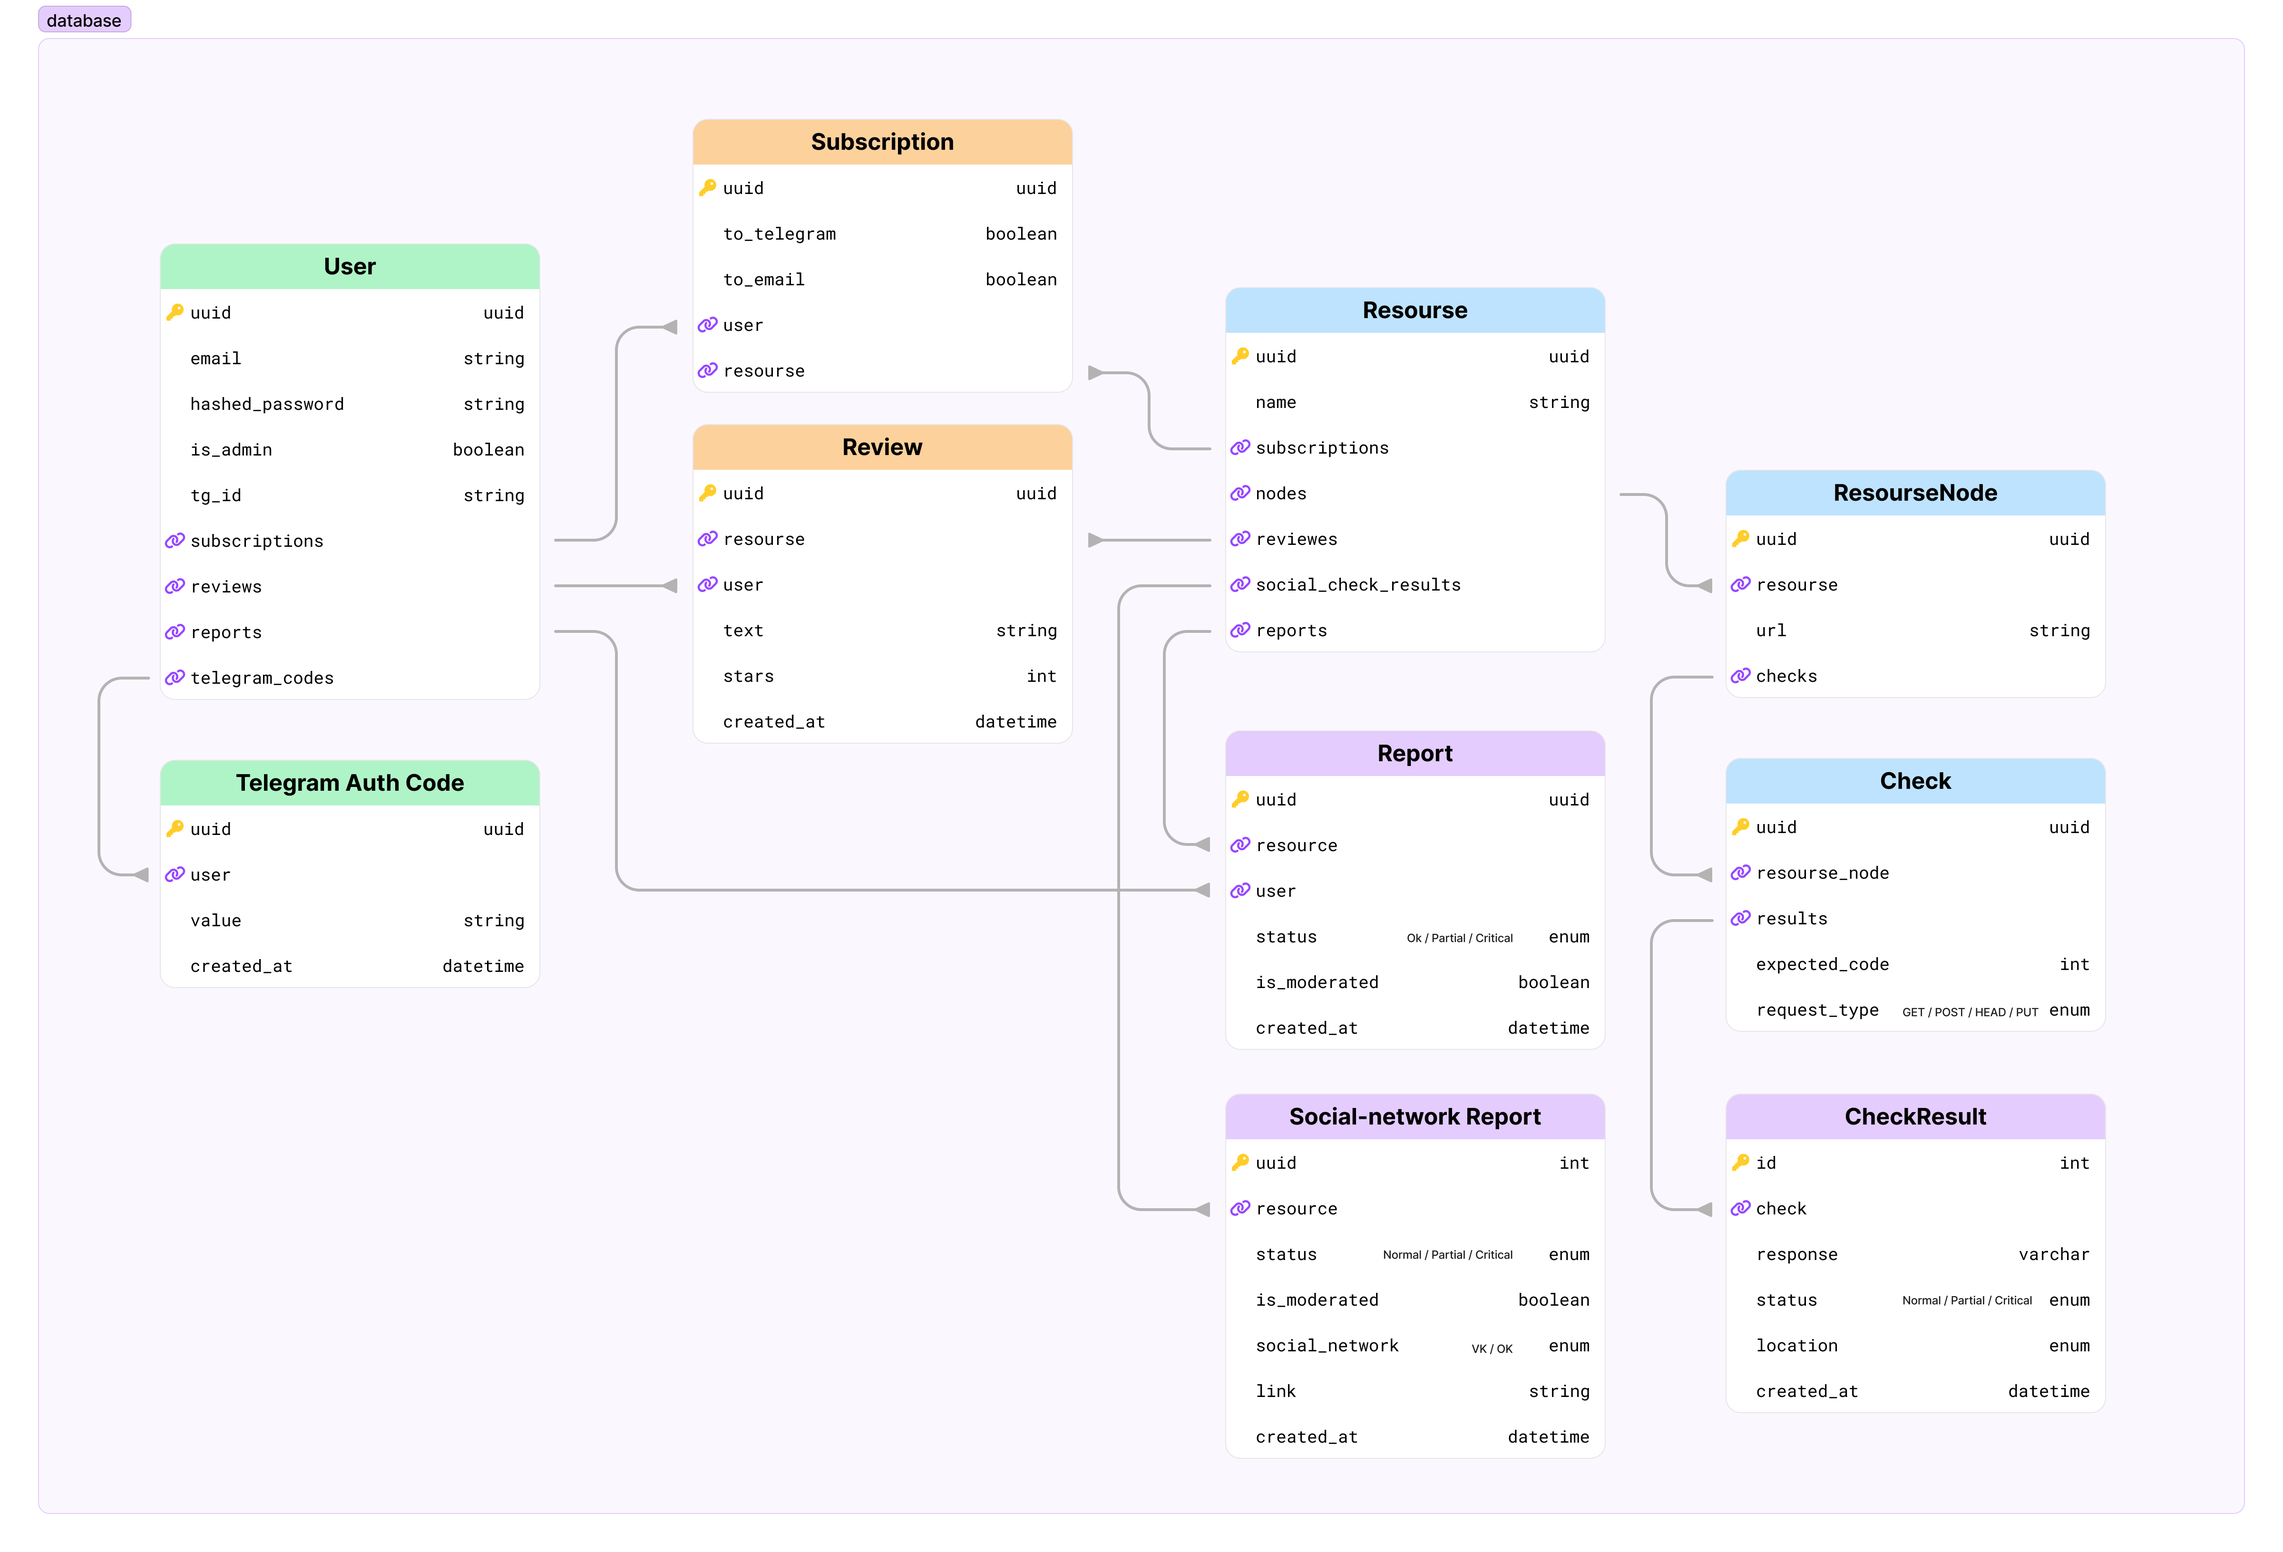
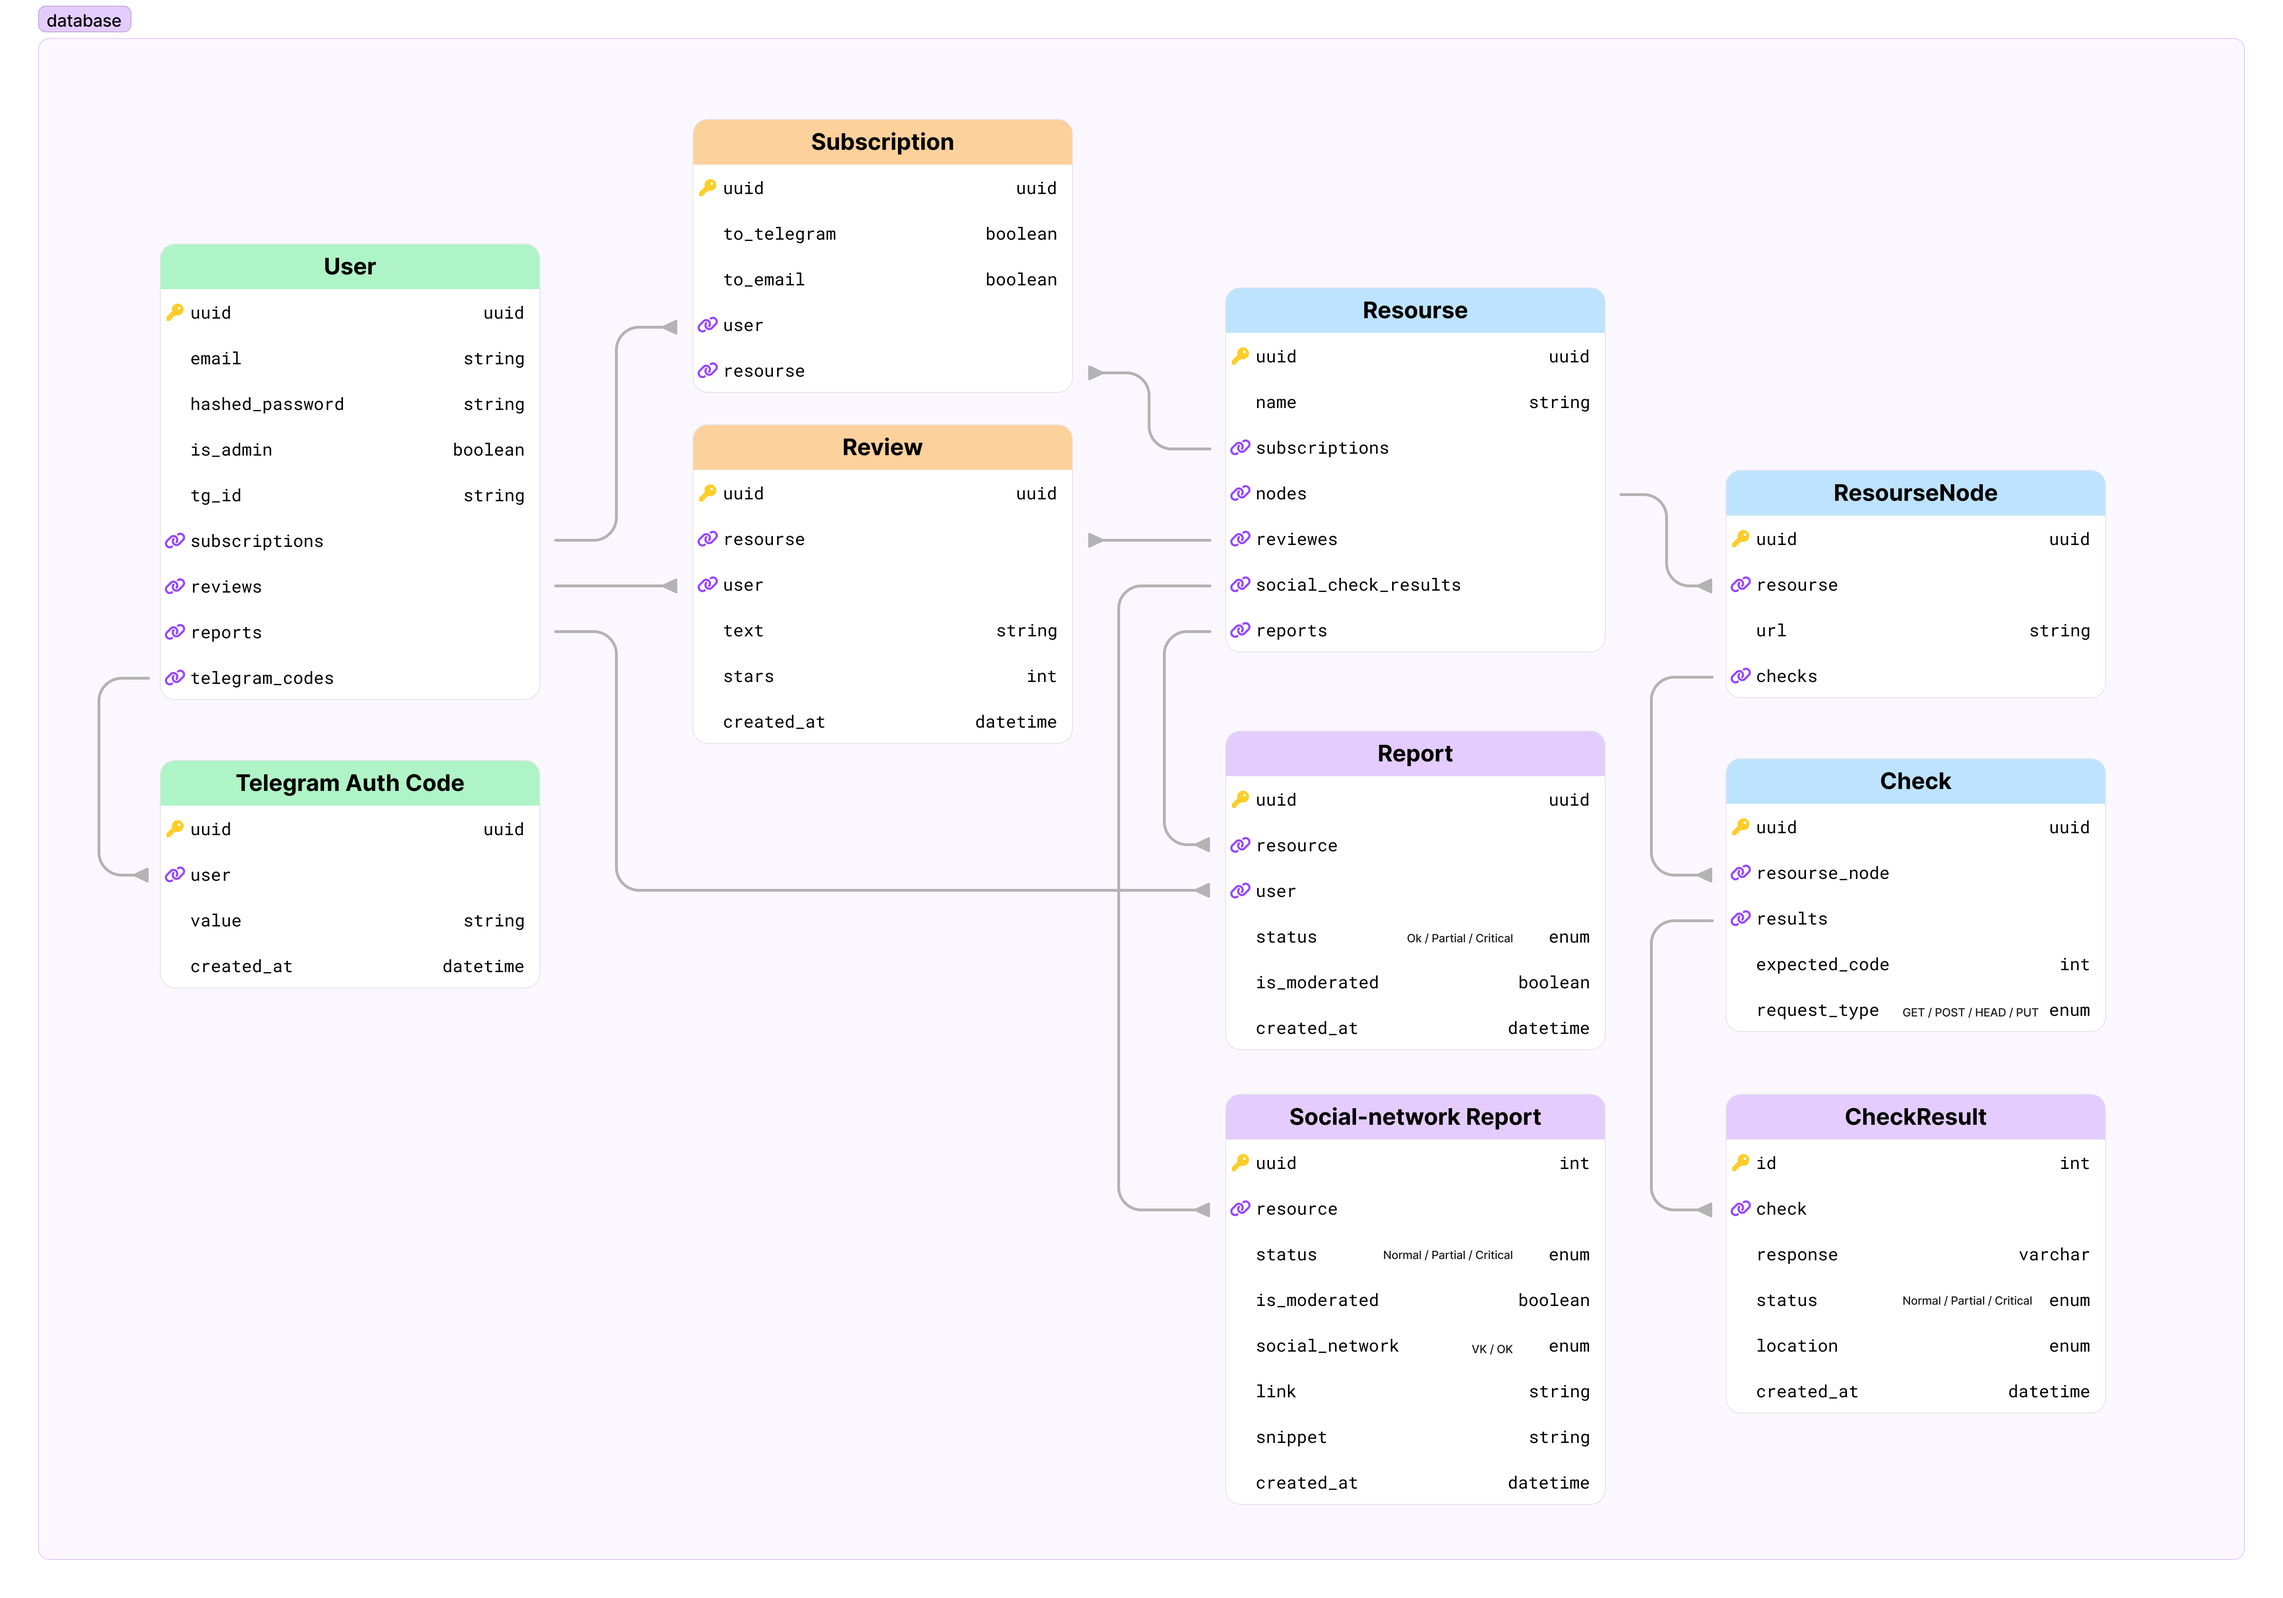
feat(api): add snippet field to social network

diff --git a/backend/app/applications/social_reports/schemas.py b/backend/app/applications/social_reports/schemas.py
@@ -21,9 +21,10 @@ class BaseProperties(BaseModel):
 
 class SocialReport(BaseProperties):
     status: Status
+    snippet: str
     social_network: SocialNetworks
     link: str
-    resource_id: UUID4
+    resource_uuid: UUID4
 
 
 class SocialReportCreate(SocialReport):
@@ -34,6 +35,7 @@ class SocialReportCreate(SocialReport):
             "example": {
                 "status": "OK",
                 "social_network": "VK",
+                "snippet": "Игорь К: Только у меня упал сайт вышки??",
                 "link": "https://vk.com/club123456789",
                 "resource_uuid": "f7b4c2c0-5b5a-4b4a-9c1c-8e1b0c1b0c1b",
             }
@@ -47,15 +49,16 @@ class SocialReportOut(SocialReport):
 
     class Config:
         orm_mode = True
-        
+
         schema_extra = {
             "example": {
                 "status": "OK",
                 "social_network": "VK",
+                "snippet": "Игорь К: Только у меня упал сайт вышки??",
                 "link": "https://vk.com/club123456789",
                 "resource_uuid": "f7b4c2c0-5b5a-4b4a-9c1c-8e1b0c1b0c1b",
                 "uuid": "f7b4c2c0-5b5a-4b4a-9c1c-8e1b0c1b0c1b",
                 "is_moderated": False,
-                "created_at": "2023-02-19T09:50:41.783Z"
+                "created_at": "2023-02-19T09:50:41.783Z",
             }
         }

diff --git a/backend/app/applications/resources/routes.py b/backend/app/applications/resources/routes.py
@@ -77,11 +77,11 @@ async def read_resource(
             status_code=404,
             detail="The resource with this uuid does not exist",
         )
-        
+
     resource_dict = await resource.to_dict()
-    
+
     rating = await resource.rating
-    
+
     return ResourceOutWithRating(**resource_dict, rating=rating)
 
 
@@ -181,7 +181,8 @@ async def read_resource_reports(
 
 @router.get("/{uuid}/social_reports", response_model=List[SocialReportOut], status_code=200)
 async def read_resource_social_reports(
-    uuid: UUID4,
+        uuid: UUID4,
+        is_moderated: bool = False,
 ):
     """
     Get resource social reports by uuid.
@@ -194,7 +195,13 @@ async def read_resource_social_reports(
             detail="The resource with this uuid does not exist",
         )
 
-    return list(resource.social_network_reports)
+    res = []
+    social_reports = await resource.social_network_reports.filter(is_moderated=is_moderated).all()
+    for social_report in social_reports:
+        report_dict = await social_report.to_dict()
+        res.append(SocialReportOut(**report_dict, resource_uuid=resource.uuid))
+
+    return res
 
 
 @router.get("/{uuid}/reviews", response_model=List[ReviewOut], status_code=200)

diff --git a/backend/app/applications/social_reports/routes.py b/backend/app/applications/social_reports/routes.py
@@ -43,7 +43,7 @@ async def create_social_report(
     """
     Create new social report.
     """
-    resource = await Resource.filter(uuid=social_report_in.resource_id).first()
+    resource = await Resource.filter(uuid=social_report_in.resource_uuid).first()
     if not resource:
         raise HTTPException(
             status_code=400,
@@ -51,7 +51,9 @@ async def create_social_report(
         )
 
     created_social_report = await SocialNetworkReport.create(
-        **social_report_in.dict(exclude={"uuid", "resource_id"}), resource=resource
+        **social_report_in.dict(exclude={"resource_uuid"}), resource=resource
     )
 
-    return created_social_report
+    response_dict = await created_social_report.to_dict()
+
+    return SocialReportOut(**response_dict, resource_uuid=resource.uuid)

diff --git a/backend/app/applications/social_reports/models.py b/backend/app/applications/social_reports/models.py
@@ -14,6 +14,7 @@ class SocialNetworkReport(BaseModel):
     is_moderated = fields.BooleanField(default=False)
     social_network = fields.CharEnumField(SocialNetworks)
     link = fields.CharField(max_length=255)
+    snippet = fields.CharField(max_length=512)
     created_at = fields.DatetimeField(auto_now_add=True)
 
     class Meta:
